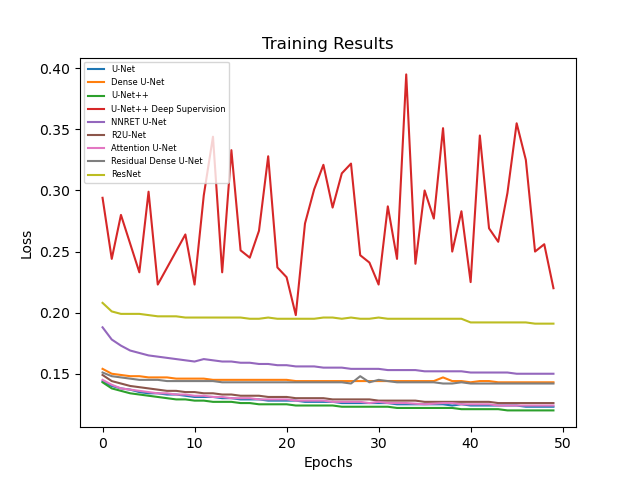
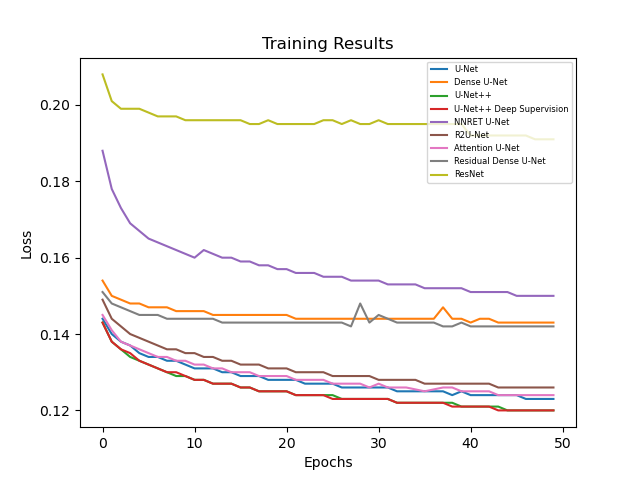
update graphs because unet++ results changed

diff --git a/results/grapher.py b/results/grapher.py
@@ -133,4 +133,4 @@ def run(debug=True):
 
     run_models(model_names, folders, file_names, debug)
 
-run(True)
+run(False)
